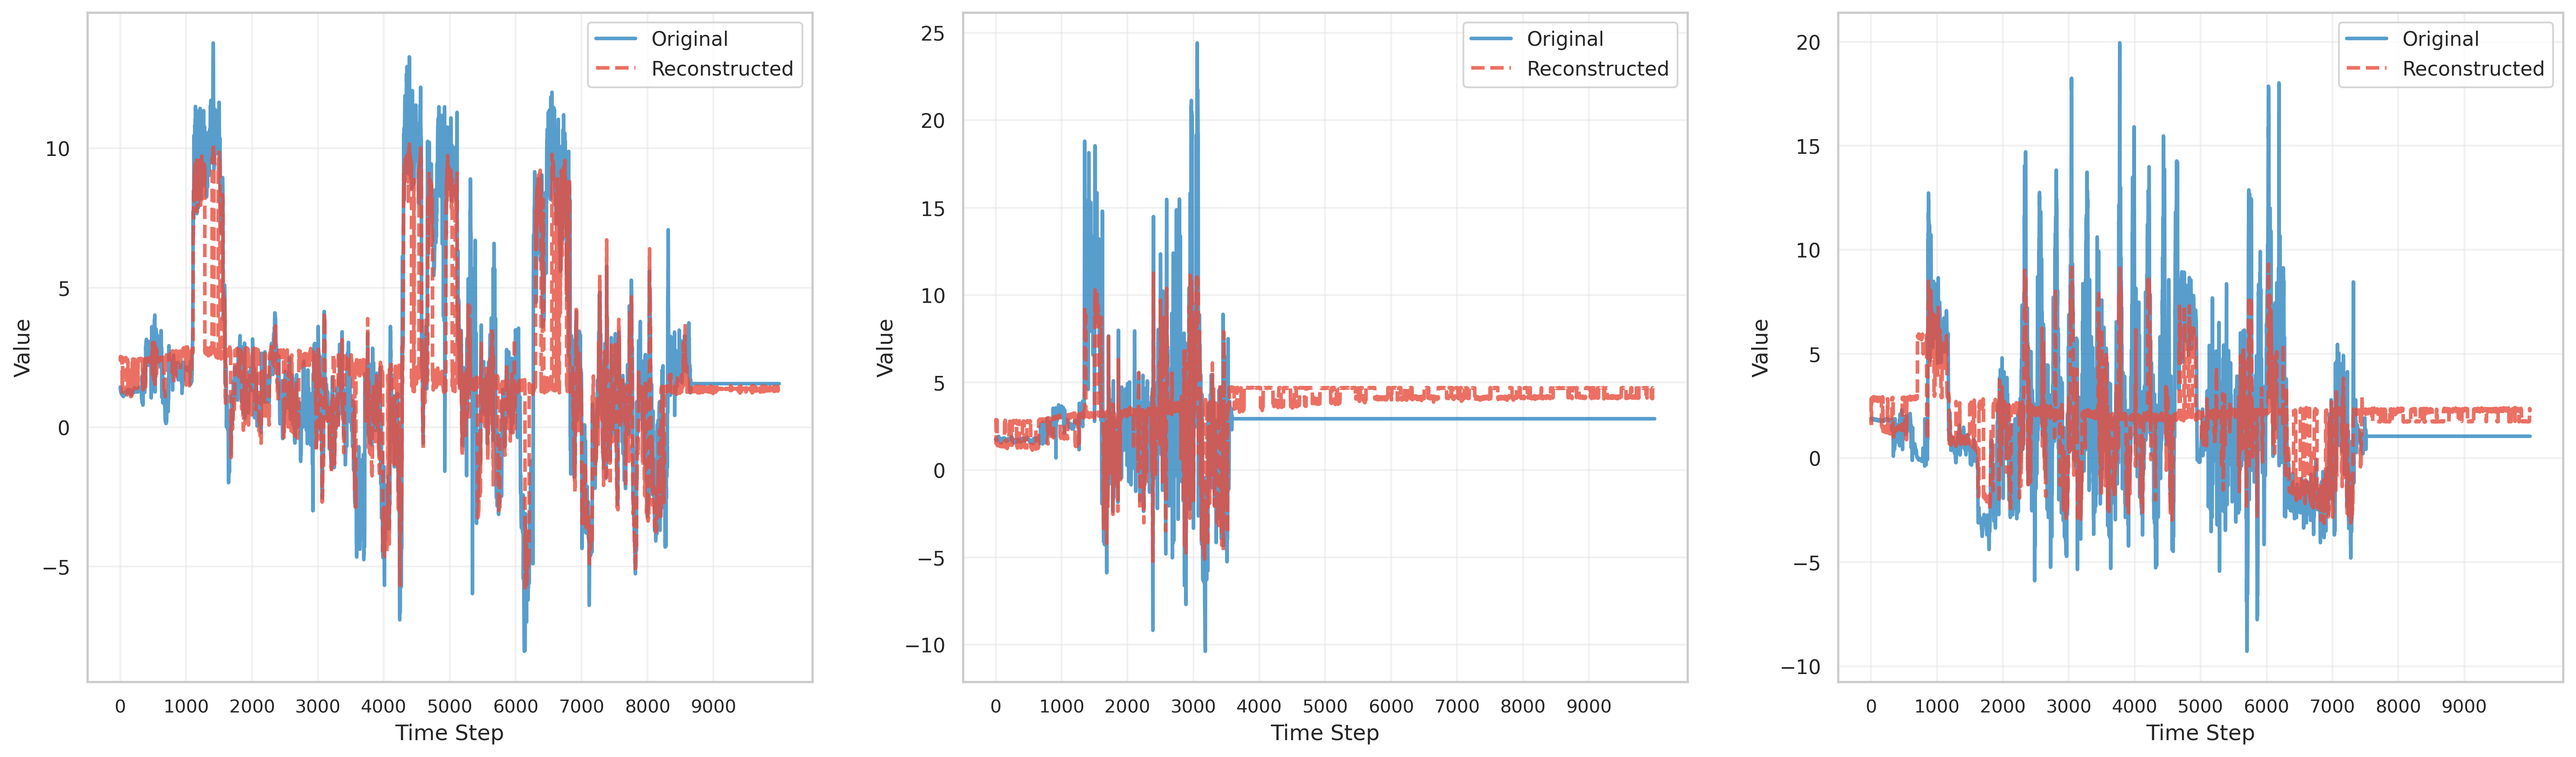
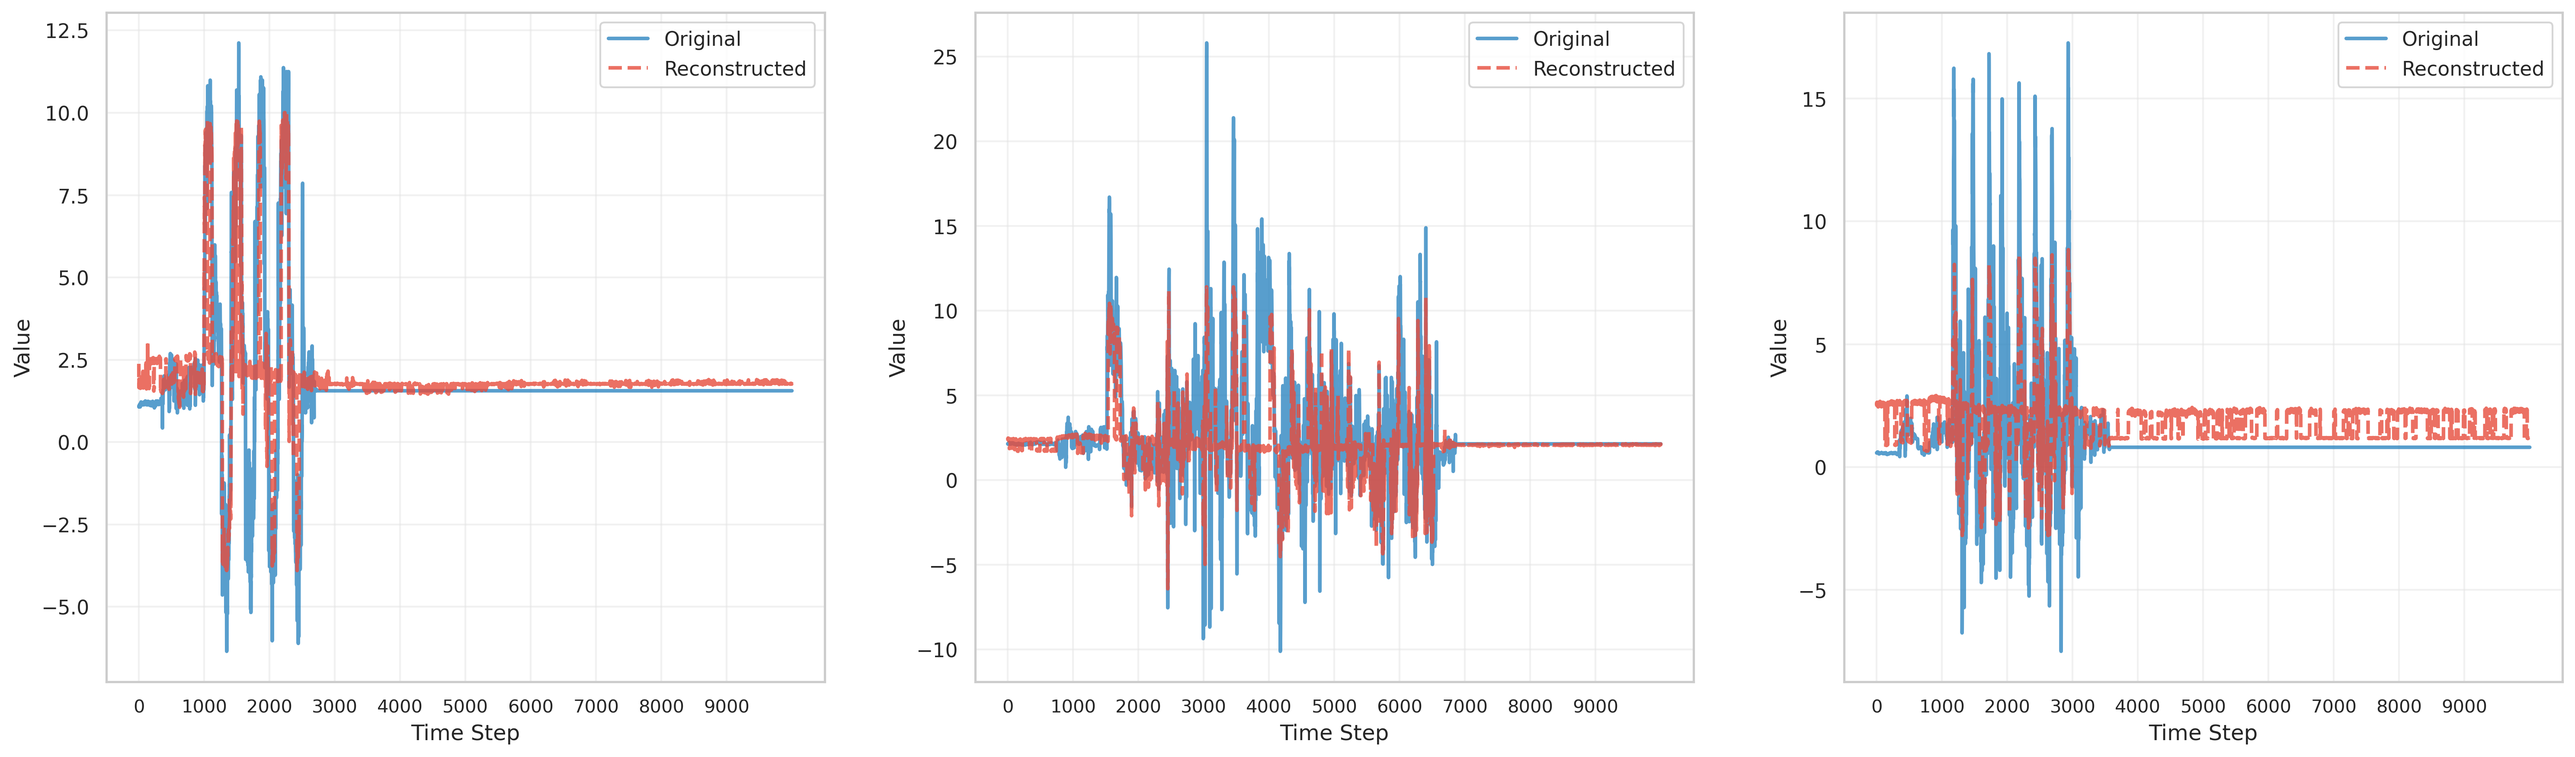
noramlization for testing

diff --git a/test_bert_masked_regressor.py b/test_bert_masked_regressor.py
@@ -68,17 +68,20 @@ def evaluate_model(model, test_data, flight_ids, normalization_params, batch_siz
 
             reconstructed = model(masked_data)
 
-            # Denormalize for evaluation (matching autoencoder benchmark)
-            original_denorm = data.cpu().numpy() * normalization_params['std'] + normalization_params['mean']
-            recon_denorm = reconstructed.cpu().numpy() * normalization_params['std'] + normalization_params['mean']
+            # Compute metrics on normalized values (as per experiment description)
+            original_norm = data.cpu().numpy()
+            recon_norm = reconstructed.cpu().numpy()
 
-            mae = np.mean(np.abs(original_denorm - recon_denorm))
-            mse = np.mean((original_denorm - recon_denorm) ** 2)
+            mae = np.mean(np.abs(original_norm - recon_norm))
+            mse = np.mean((original_norm - recon_norm) ** 2)
 
             total_mae += mae
             total_mse += mse
             num_batches += 1
 
+            # Denormalize for visualization only
+            original_denorm = original_norm * normalization_params['std'] + normalization_params['mean']
+            recon_denorm = recon_norm * normalization_params['std'] + normalization_params['mean']
             all_orig.append(original_denorm)
             all_recon.append(recon_denorm)
             all_masks.append(np.stack(batch_masks, axis=0))
@@ -137,16 +140,20 @@ def evaluate_sequential_model(model, test_data, flight_ids, sequence_length_map,
 
             reconstructed = model(masked_data)
 
-            original_denorm = data.cpu().numpy() * normalization_params['std'] + normalization_params['mean']
-            recon_denorm = reconstructed.cpu().numpy() * normalization_params['std'] + normalization_params['mean']
+            # Compute metrics on normalized values (as per experiment description)
+            original_norm = data.cpu().numpy()
+            recon_norm = reconstructed.cpu().numpy()
 
-            mae = np.mean(np.abs(original_denorm - recon_denorm))
-            mse = np.mean((original_denorm - recon_denorm) ** 2)
+            mae = np.mean(np.abs(original_norm - recon_norm))
+            mse = np.mean((original_norm - recon_norm) ** 2)
 
             total_mae += mae
             total_mse += mse
             num_batches += 1
 
+            # Denormalize for visualization only
+            original_denorm = original_norm * normalization_params['std'] + normalization_params['mean']
+            recon_denorm = recon_norm * normalization_params['std'] + normalization_params['mean']
             all_orig.append(original_denorm)
             all_recon.append(recon_denorm)
             all_masks.append(np.stack(batch_masks, axis=0))
